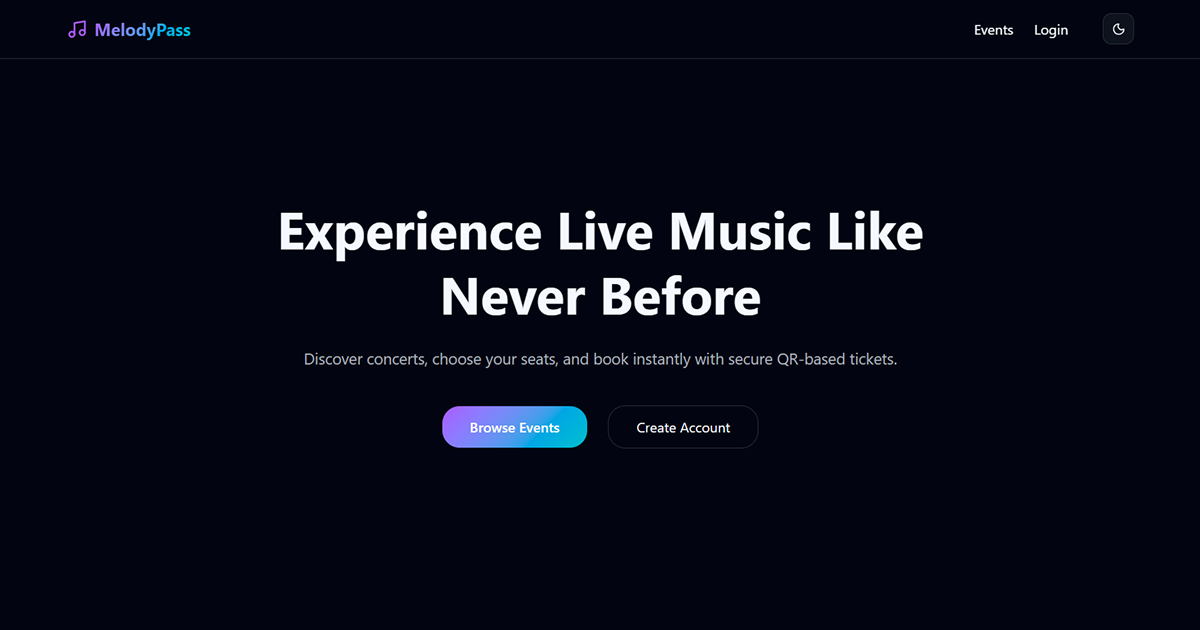
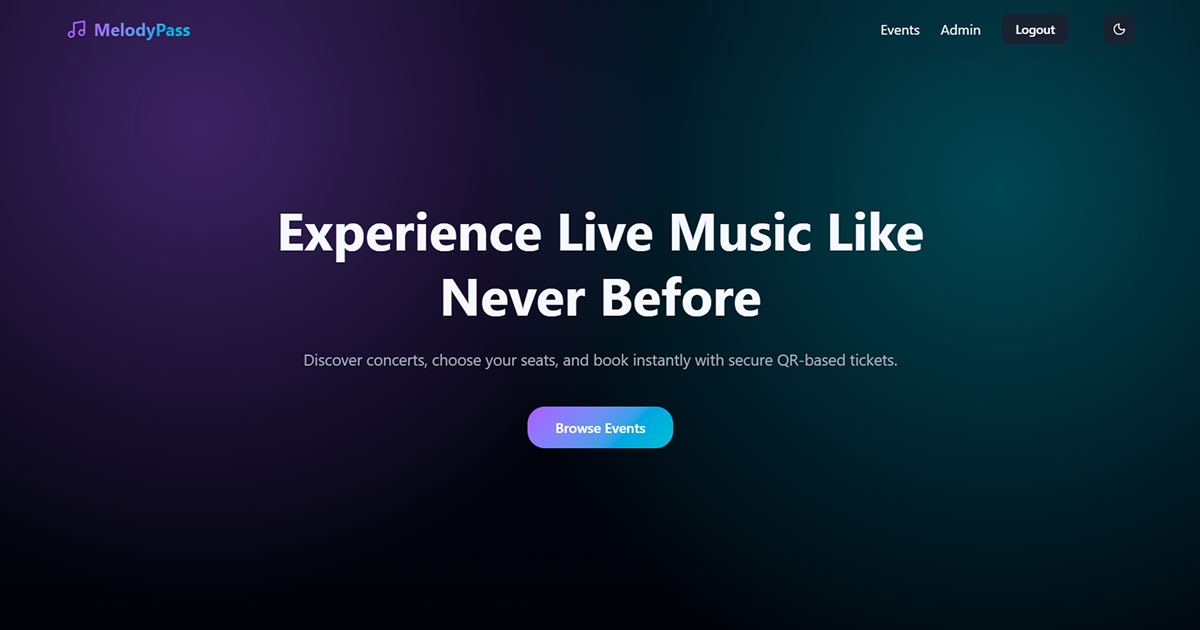
Update landing page and removed Dynamic MetaData geneartion for events.

diff --git a/app/page.tsx b/app/page.tsx
@@ -3,56 +3,64 @@
 import { useAuth } from "@/context/auth-context";
 import { motion } from "framer-motion";
 import Link from "next/link";
+import { useEffect } from "react";
 
 export default function Home() {
   const { user } = useAuth();
+
+  useEffect(() => {
+    document.body.classList.add("home-gradient");
+
+    return () => {
+      document.body.classList.remove("home-gradient");
+    };
+  }, []);
+
   return (
-    <>
-      <main className="min-h-[calc(100vh-80px)] flex items-center justify-center px-6">
-        <section className="text-center max-w-4xl">
-          <motion.h1
-            initial={{ opacity: 0, y: 40 }}
-            animate={{ opacity: 1, y: 0 }}
-            transition={{ duration: 0.8 }}
-            className="text-5xl md:text-6xl font-bold leading-tight"
-          >
-            Experience Live Music Like Never Before
-          </motion.h1>
+    <main className="min-h-[calc(100vh-80px)] flex items-center justify-center px-6">
+      <section className="text-center max-w-4xl">
+        <motion.h1
+          initial={{ opacity: 0, y: 40 }}
+          animate={{ opacity: 1, y: 0 }}
+          transition={{ duration: 0.8 }}
+          className="text-5xl md:text-6xl font-bold leading-tight"
+        >
+          Experience Live Music Like Never Before
+        </motion.h1>
 
-          <motion.p
-            initial={{ opacity: 0, y: 40 }}
-            animate={{ opacity: 1, y: 0 }}
-            transition={{ delay: 0.2, duration: 0.8 }}
-            className="mt-6 text-muted-foreground text-lg"
-          >
-            Discover concerts, choose your seats, and book instantly with secure
-            QR-based tickets.
-          </motion.p>
+        <motion.p
+          initial={{ opacity: 0, y: 40 }}
+          animate={{ opacity: 1, y: 0 }}
+          transition={{ delay: 0.2, duration: 0.8 }}
+          className="mt-6 text-muted-foreground text-lg"
+        >
+          Discover concerts, choose your seats, and book instantly with secure
+          QR-based tickets.
+        </motion.p>
 
-          <motion.div
-            initial={{ opacity: 0, y: 40 }}
-            animate={{ opacity: 1, y: 0 }}
-            transition={{ delay: 0.4, duration: 0.8 }}
-            className="mt-10 flex flex-col md:flex-row items-center justify-center gap-6"
+        <motion.div
+          initial={{ opacity: 0, y: 40 }}
+          animate={{ opacity: 1, y: 0 }}
+          transition={{ delay: 0.4, duration: 0.8 }}
+          className="mt-10 flex flex-col md:flex-row items-center justify-center gap-6"
+        >
+          <Link
+            href="/events"
+            className="px-8 py-3 rounded-2xl neon-gradient text-white font-semibold hover:scale-105 transition"
           >
+            Browse Events
+          </Link>
+
+          {!user && (
             <Link
-              href="/events"
-              className="px-8 py-3 rounded-2xl neon-gradient text-white font-semibold hover:scale-105 transition"
+              href="/auth/register"
+              className="px-8 py-3 rounded-2xl border border-border hover:bg-primary/20 transition"
             >
-              Browse Events
+              Create Account
             </Link>
-
-            {!user && (
-              <Link
-                href="/auth/register"
-                className="px-8 py-3 rounded-2xl border border-border hover:bg-primary/20 transition"
-              >
-                Create Account
-              </Link>
-            )}
-          </motion.div>
-        </section>
-      </main>
-    </>
+          )}
+        </motion.div>
+      </section>
+    </main>
   );
 }

diff --git a/app/globals.css b/app/globals.css
@@ -169,11 +169,52 @@ body {
   color: transparent;
 }
 
+/* App background gradient */
+.app-gradient {
+  background:
+    radial-gradient(
+      circle at 20% 20%,
+      oklch(0.65 0.25 300 / 0.25),
+      transparent 40%
+    ),
+    radial-gradient(
+      circle at 80% 30%,
+      oklch(0.7 0.2 200 / 0.25),
+      transparent 45%
+    ),
+    linear-gradient(180deg, oklch(0.14 0.03 260), oklch(0.1 0.02 260));
+}
+
 @layer base {
   * {
     @apply border-border outline-ring/50;
   }
   body {
-    @apply bg-background text-foreground;
+    @apply text-foreground;
+  }
+
+  body.home-gradient::before {
+    content: "";
+    position: fixed;
+    inset: 0;
+    z-index: -1;
+    pointer-events: none;
+
+    background:
+      radial-gradient(
+        circle at 20% 20%,
+        color-mix(in oklab, var(--primary) 35%, transparent),
+        transparent 40%
+      ),
+      radial-gradient(
+        circle at 80% 30%,
+        color-mix(in oklab, var(--accent) 35%, transparent),
+        transparent 45%
+      ),
+      linear-gradient(
+        180deg,
+        var(--background),
+        color-mix(in oklab, var(--background) 85%, black)
+      );
   }
 }

diff --git a/app/layout.tsx b/app/layout.tsx
@@ -94,46 +94,6 @@ export const metadata: Metadata = {
   applicationName: "MelodyPass",
 };
 
-// Dynamic metadata generation for event pages
-export async function generateMetadata({ params }: Props): Promise<Metadata> {
-  const res = await fetch(
-    `${process.env.NEXT_PUBLIC_API_BASE_URL}/events/${params.id}`,
-    { cache: "no-store" },
-  );
-
-  const event = await res.json();
-
-  return {
-    title: event.title,
-    description: event.description,
-
-    openGraph: {
-      title: event.title,
-      description: event.description,
-      url: `https://melodypass.vercel.app/events/${params.id}`,
-      siteName: "MelodyPass",
-
-      images: [
-        {
-          url: "/og-image.png",
-          width: 1200,
-          height: 630,
-          alt: event.title,
-        },
-      ],
-
-      type: "website",
-    },
-
-    twitter: {
-      card: "summary_large_image",
-      title: event.title,
-      description: event.description,
-      images: ["/og-image.png"],
-    },
-  };
-}
-
 export default function RootLayout({
   children,
 }: {

diff --git a/components/navbar.tsx b/components/navbar.tsx
@@ -6,16 +6,23 @@ import { motion } from "framer-motion";
 import { ModeToggle } from "@/components/mode-toggle";
 import { useAuth } from "@/context/auth-context";
 import { Button } from "./ui/button";
+import { usePathname } from "next/navigation";
 
 export default function Navbar() {
   const { user, logout } = useAuth();
+  const pathname = usePathname();
+
+  const navClass =
+    pathname === "/"
+      ? "fixed top-0 w-full z-50 backdrop-blur-lg border-none"
+      : "fixed top-0 w-full z-50 backdrop-blur-md bg-background/70 border-b border-border";
 
   return (
     <motion.nav
       initial={{ y: -60, opacity: 0 }}
       animate={{ y: 0, opacity: 1 }}
       transition={{ duration: 0.6 }}
-      className="fixed top-0 w-full z-50 backdrop-blur-md bg-background/70 border-b border-border"
+      className={navClass}
     >
       <div className="max-w-7xl mx-auto flex items-center justify-between px-6 py-4">
         <Link href="/" className="flex items-center gap-2 font-bold text-xl">

diff --git a/app/events/[id]/page.tsx b/app/events/[id]/page.tsx
@@ -3,10 +3,8 @@
 import { useEffect, useState } from "react";
 import { useParams } from "next/navigation";
 import api from "@/lib/api";
-import Navbar from "@/components/navbar";
 import { Card, CardContent, CardHeader, CardTitle } from "@/components/ui/card";
 import { Badge } from "@/components/ui/badge";
-import { Button } from "@/components/ui/button";
 import { motion } from "framer-motion";
 import SeatMap from "@/components/seat-map";
 

diff --git a/components/mode-toggle.tsx b/components/mode-toggle.tsx
@@ -17,7 +17,7 @@ export function ModeToggle() {
     <div className="ml-4 cursor-pointer">
       <DropdownMenu>
         <DropdownMenuTrigger asChild>
-          <Button variant="outline" size="icon">
+          <Button className="cursor-pointer" variant="secondary" size="icon">
             <Sun className="h-4 w-4 cursor-pointer dark:hidden" />
             <Moon className="hidden h-4 w-4 cursor-pointer dark:block" />
           </Button>
